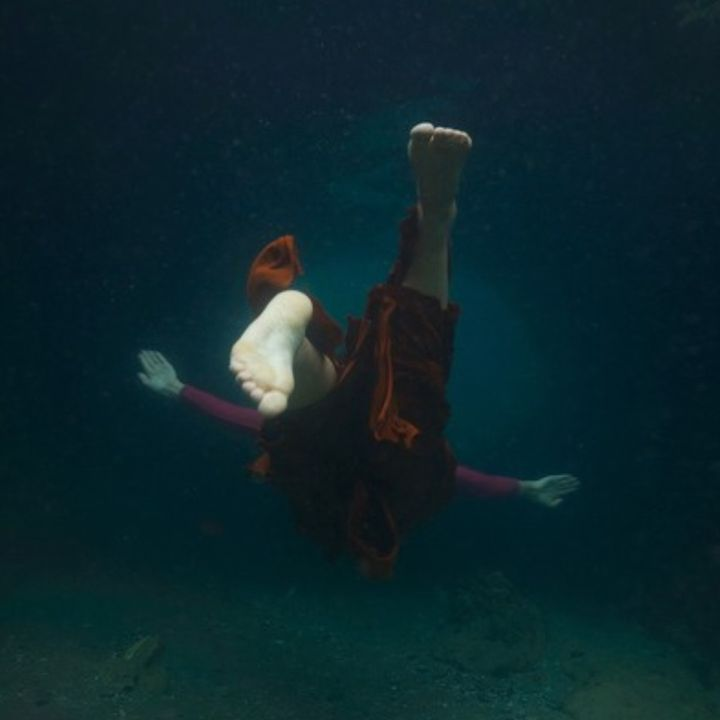
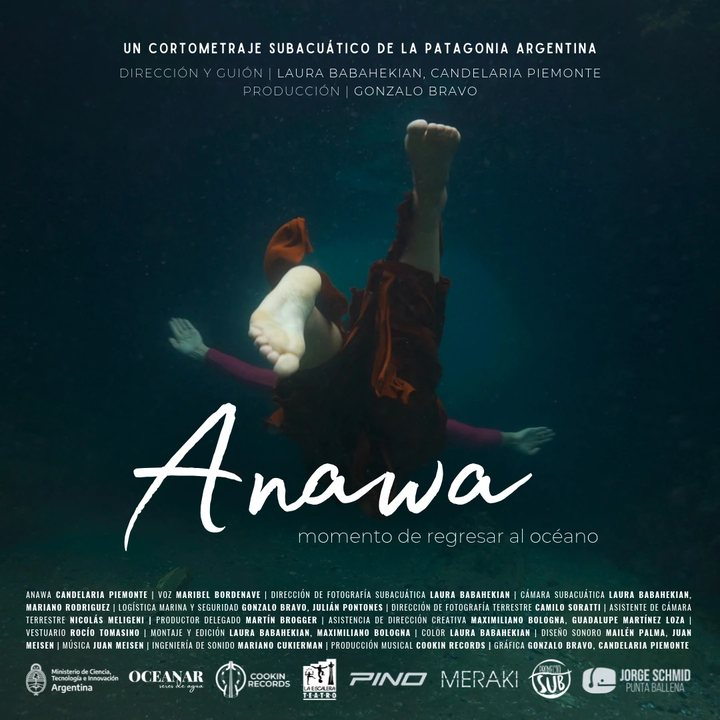
feat: use the real covers and posters and link every activity that has a page

diff --git a/src/components/HeadlinePanel.tsx b/src/components/HeadlinePanel.tsx
@@ -17,6 +17,7 @@ type Props = {
       text: string;
       photo: string;
       photoAlt: string;
+      photoShape: string;
       url?: string;
       linkLabel?: string;
     }[];
@@ -105,7 +106,7 @@ export function HeadlinePanel({
         inert={!open}
         className="bg-ocean-deep/85 absolute inset-0 z-10 translate-x-full overflow-y-auto backdrop-blur-md transition-transform duration-700 ease-[cubic-bezier(0.22,1,0.36,1)] data-[open=true]:translate-x-0 motion-reduce:transition-none"
       >
-        <div className="mx-auto grid max-w-6xl gap-8 px-8 pt-12 pb-32 sm:px-12 sm:pt-16 lg:grid-cols-[4fr_7fr] lg:items-center lg:gap-14 lg:pb-16">
+        <div className="mx-auto grid max-w-6xl gap-8 px-8 pt-12 pb-32 sm:px-12 sm:pt-16 lg:grid-cols-[4fr_7fr] lg:items-center lg:gap-14 lg:py-10">
           <div className="flex flex-col gap-6">
             <h3
               id={titleId}
@@ -119,16 +120,37 @@ export function HeadlinePanel({
             {section.items.map((item) => (
               <li
                 key={item.name}
-                className="grid grid-cols-[5.5rem_1fr] items-start gap-4 border-t border-white/25 pt-5 sm:grid-cols-[8rem_1fr] sm:items-center sm:gap-6 lg:grid-cols-[11rem_1fr]"
+                className="grid grid-cols-[5.5rem_1fr] items-start gap-4 border-t border-white/25 pt-5 sm:grid-cols-[8rem_1fr] sm:items-center sm:gap-6 lg:grid-cols-[9rem_1fr]"
               >
-                <Image
-                  src={`/images/home/${item.photo}.jpg`}
-                  alt={item.photoAlt}
-                  width={720}
-                  height={720}
-                  sizes="(min-width: 1024px) 176px, (min-width: 640px) 128px, 104px"
-                  className="aspect-square w-full object-cover"
-                />
+                {/* The photo opens the same link as the text link below it. */}
+                {(() => {
+                  const poster = item.photoShape === "poster";
+                  const photo = (
+                    <Image
+                      src={`/images/home/${item.photo}.jpg`}
+                      alt={item.photoAlt}
+                      width={720}
+                      height={poster ? 1008 : 720}
+                      sizes="(min-width: 1024px) 144px, (min-width: 640px) 128px, 88px"
+                      className={`w-full object-cover ${
+                        poster ? "aspect-[5/7]" : "aspect-square"
+                      }`}
+                    />
+                  );
+                  return item.url ? (
+                    <a
+                      href={item.url}
+                      target="_blank"
+                      rel="noopener noreferrer"
+                      tabIndex={-1}
+                      className="block transition-opacity hover:opacity-85"
+                    >
+                      {photo}
+                    </a>
+                  ) : (
+                    photo
+                  );
+                })()}
                 <div>
                   <p className="font-heading text-sm tracking-[0.2em] uppercase">
                     {item.name}
